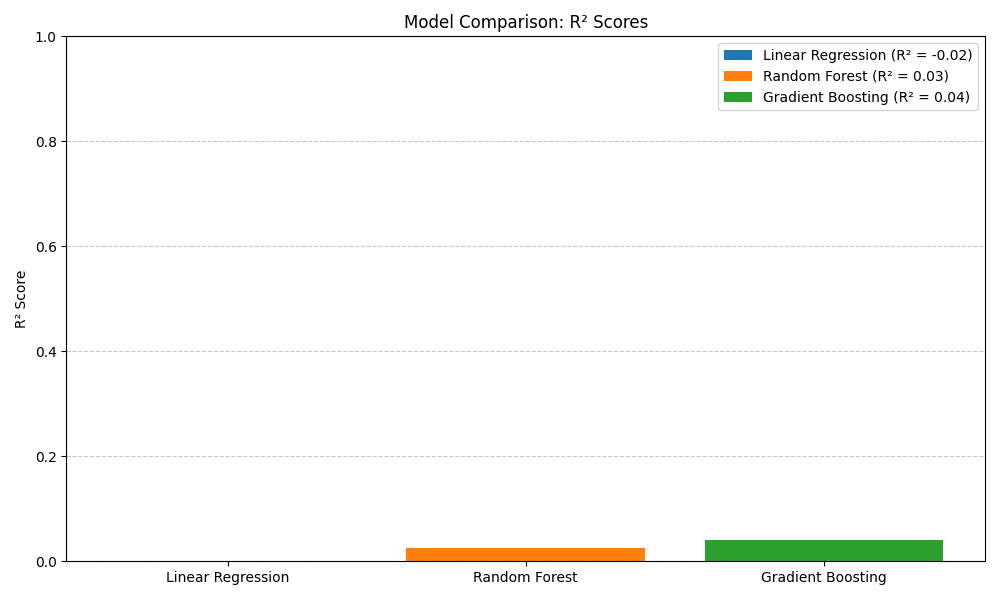
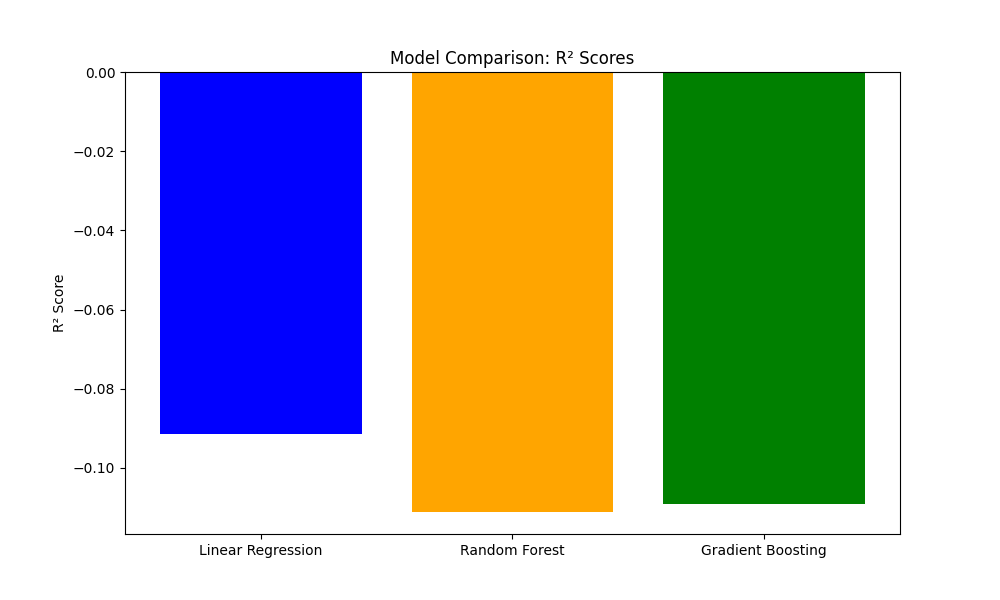
Update project with recent changes

diff --git a/analysis/analyze_merged_data.py b/analysis/analyze_merged_data.py
@@ -1,0 +1,135 @@
+import pandas as pd
+import matplotlib.pyplot as plt
+import seaborn as sns
+import os
+from sklearn.linear_model import LinearRegression
+from sklearn.ensemble import RandomForestRegressor, GradientBoostingRegressor
+from sklearn.model_selection import train_test_split
+from sklearn.metrics import r2_score
+
+# File paths for merged datasets
+file_paths = [
+    '/Users/gim-yeji/PycharmProjects/pythonProject/IoT/merged_data_collection/merged_data_2024-12-02.csv',
+    '/Users/gim-yeji/PycharmProjects/pythonProject/IoT/merged_data_collection/merged_data_2024-12-03.csv',
+    '/Users/gim-yeji/PycharmProjects/pythonProject/IoT/merged_data_collection/merged_data_2024-12-04.csv',
+    '/Users/gim-yeji/PycharmProjects/pythonProject/IoT/merged_data_collection/merged_data_2024-12-06.csv',
+    '/Users/gim-yeji/PycharmProjects/pythonProject/IoT/merged_data_collection/merged_data_2024-12-07.csv',
+    '/Users/gim-yeji/PycharmProjects/pythonProject/IoT/merged_data_collection/merged_data_2024-12-08.csv',
+    '/Users/gim-yeji/PycharmProjects/pythonProject/IoT/merged_data_collection/merged_data_2024-12-09.csv',
+    '/Users/gim-yeji/PycharmProjects/pythonProject/IoT/merged_data_collection/merged_data_2024-12-11.csv'
+]
+
+# Output folder for analysis results
+output_folder = "/Users/gim-yeji/PycharmProjects/pythonProject/IoT/models/analysis"
+if not os.path.exists(output_folder):
+    os.makedirs(output_folder)
+
+# Function to load and combine all data files
+def load_data(files):
+    """
+    Load and combine all merged CSV files into a single DataFrame.
+    """
+    data = pd.concat([pd.read_csv(file) for file in files], ignore_index=True)
+    return data
+
+# Function to preprocess the data
+def preprocess_data(data):
+    """
+    Preprocess data by formatting 'datetime' and creating useful fields.
+    """
+    # Convert 'datetime' to pandas datetime format
+    data['datetime'] = pd.to_datetime(data['datetime'], errors='coerce')
+    # Drop rows with invalid datetime
+    data = data.dropna(subset=['datetime'])
+    # Extract hour for hourly traffic analysis
+    data['hour'] = data['datetime'].dt.hour
+    # Convert categorical 'line' to numeric values
+    data['line_numeric'] = pd.factorize(data['line'])[0]
+    return data
+
+# Function to analyze correlation
+def analyze_correlation(data):
+    """
+    Analyze correlations between temperature, humidity, and traffic volume.
+    """
+    corr_matrix = data[['temperature', 'humidity', 'line_numeric']].corr()
+    plt.figure(figsize=(10, 8))
+    sns.heatmap(corr_matrix, annot=True, fmt=".2f", cmap="coolwarm")
+    plt.title("Correlation Matrix")
+    plt.savefig(f"{output_folder}/correlation_matrix.png")
+    plt.close()
+
+# Function to create an hourly heatmap
+def analyze_hourly_heatmap(data):
+    """
+    Analyze and visualize traffic volume by hour for each route.
+    """
+    pivot = data.pivot_table(index='line', columns='hour', values='line_numeric', aggfunc='count', fill_value=0)
+    plt.figure(figsize=(12, 8))
+    sns.heatmap(pivot, cmap="YlGnBu", annot=False)
+    plt.title("Hourly Traffic Heatmap")
+    plt.xlabel("Hour")
+    plt.ylabel("Line")
+    plt.savefig(f"{output_folder}/hourly_heatmap.png")
+    plt.close()
+
+# Function to compare models and visualize their performance
+def model_analysis(data):
+    """
+    Compare multiple machine learning models and evaluate their performance.
+    """
+    X = data[['temperature', 'humidity']]
+    y = data['line_numeric']
+
+    # Split the data into training and testing sets
+    X_train, X_test, y_train, y_test = train_test_split(X, y, test_size=0.2, random_state=42)
+
+    # Define models
+    models = {
+        "Linear Regression": LinearRegression(),
+        "Random Forest": RandomForestRegressor(random_state=42),
+        "Gradient Boosting": GradientBoostingRegressor(random_state=42)
+    }
+
+    # Train models and evaluate R² scores
+    results = {}
+    for name, model in models.items():
+        model.fit(X_train, y_train)
+        y_pred = model.predict(X_test)
+        r2 = r2_score(y_test, y_pred)
+        results[name] = r2
+
+    # Visualize R² scores
+    plt.figure(figsize=(10, 6))
+    plt.bar(results.keys(), results.values(), color=["blue", "orange", "green"])
+    plt.title("Model Comparison: R² Scores")
+    plt.ylabel("R² Score")
+    plt.savefig(f"{output_folder}/model_comparison.png")
+    plt.close()
+
+    # Visualize Actual vs Predicted values for the best model
+    y_pred = models["Gradient Boosting"].predict(X_test)
+    plt.figure(figsize=(10, 6))
+    plt.scatter(y_test, y_pred, label="Predicted vs Actual", alpha=0.6)
+    plt.plot([y_test.min(), y_test.max()], [y_test.min(), y_test.max()], 'r--', label="Ideal Fit")
+    plt.title("Model Performance: Actual vs Predicted")
+    plt.xlabel("Actual Traffic Volume")
+    plt.ylabel("Predicted Traffic Volume")
+    plt.legend()
+    plt.savefig(f"{output_folder}/actual_vs_predicted.png")
+    plt.close()
+
+# Main execution flow
+if __name__ == "__main__":
+    # Load and preprocess data
+    raw_data = load_data(file_paths)
+    clean_data = preprocess_data(raw_data)
+
+    # Perform correlation analysis
+    analyze_correlation(clean_data)
+
+    # Create hourly traffic heatmap
+    analyze_hourly_heatmap(clean_data)
+
+    # Perform model comparison and evaluation
+    model_analysis(clean_data)

diff --git a/analysis/traffic_visualizations.py b/analysis/traffic_visualizations.py
@@ -3,8 +3,8 @@ import matplotlib.pyplot as plt
 import os
 
 # Define paths
-DATA_PATH = "/Users/gim-yeji/PycharmProjects/pythonProject/IoT/merged_data_collection/"
-VISUALIZATION_PATH = "/Users/gim-yeji/PycharmProjects/pythonProject/IoT/static/visualizations/"
+DATA_PATH = "/IoT/merged_data_collection/"
+VISUALIZATION_PATH = "/IoT/static/visualizations/"
 
 # Ensure the visualization folder exists
 os.makedirs(VISUALIZATION_PATH, exist_ok=True)

diff --git a/data_preprocessing/data_collection.py b/data_preprocessing/data_collection.py
@@ -9,7 +9,7 @@ import logging
 
 # Set up logging
 logging.basicConfig(
-    filename="log/daily_data_collection.log",
+    filename="../log/daily_data_collection.log",
     level=logging.INFO,
     format="%(asctime)s - %(levelname)s - %(message)s"
 )

diff --git a/app.py b/app.py
@@ -61,5 +61,7 @@ def correlation():
     }
     return jsonify(correlation_results)
 
+
+
 if __name__ == "__main__":
     app.run(debug=True)

diff --git a/README.md b/README.md
@@ -1,0 +1,122 @@
+🚍 IoT Traffic Prediction and Visualization Platform
+
+An interactive platform for analyzing and predicting traffic patterns in urban areas, leveraging real-time traffic and weather data.
+
+📖 Table of Contents
+	1.	About the Project
+	2.	Features
+	3.	Project Structure
+	4.	Installation
+	5.	Usage
+	6.	Deployment
+	7.	Screenshots
+
+📌 About the Project
+
+Urban traffic management requires sophisticated tools to ensure efficiency and scalability. This project integrates real-time traffic data from the Transport API with weather data from OpenWeather API to:
+ •	Identify traffic trends.
+ •	Analyze correlations between weather and traffic.
+ •	Enable predictive modeling to forecast traffic volumes.
+
+The platform provides an interactive dashboard for visualization and predictions, making it an essential tool for transportation planning and optimization.
+
+✨ Features
+
+📊 Dynamic Visualizations:
+ •	Traffic by Hour Heatmap.
+ •  Top Routes Bar Chart.
+
+🤖 Predictive Analytics:
+ •	Traffic prediction based on temperature and humidity.
+ 
+🌐 Interactive Dashboard:
+ •	User-friendly interface for data exploration.
+ 
+🔗 Real-Time Data Integration:
+ •	Fetches traffic and weather data seamlessly.
+
+📂 Project Structure
+IoT
+├── analysis/                # Visualizations and data analysis scripts
+├── data_preprocessing/      # Data merging and preprocessing scripts
+├── log/                     # Logging files for data collection
+├── merged_data_collection/  # Merged weather and traffic datasets
+├── models/                  # Trained machine learning models (Pickle files)
+├── static/                  # Static assets (e.g., visualization images)
+├── templates/               # HTML templates for Flask
+├── transport_data_collection/ # Raw transport data
+├── weather_data_collection/ # Raw weather data
+├── app.py                   # Main Flask application
+├── part1.py                 # Data collection scripts (Part 1)
+├── requirements.txt         # Python dependencies
+└── README.md                # Project documentation
+
+💻 Installation
+
+Follow these steps to set up the project locally:
+1.	Clone the Repository
+git clone https://github.com/your-username/IoT_Final-Project.git
+cd IoT_Final-Project
+
+2. Install Dependencies
+Ensure Python 3.8+ is installed, then run:
+pip install -r requirements.txt
+
+3. Set API Keys
+Add your API keys in config.py:
+	•	Transport API
+	•	OpenWeather API
+
+🚀 Usage
+1.	Run the Application
+Start the Flask app with the following command:
+python app.py
+Visit http://127.0.0.1:5000 in your browser to access the dashboard.
+
+2. 	Interact with the Dashboard	
+•	View traffic trends and correlations.	
+•	Input weather parameters to predict traffic.
+
+🌐 Deployment
+
+Deploy Locally
+
+Follow the usage instructions to run the project locally.
+
+Deploy on Render
+	1.	Link the repository to Render.
+	2.	Set up the build command:
+        pip install -r requirements.txt
+    3. Use the start command:
+        python app.py
+    4. Deploy and access the live URL.
+
+🛠 Built With
+•	Python
+	• Flask: Web framework
+	• Matplotlib & Seaborn: Visualization
+	• Scikit-learn: Machine learning
+•	HTML/CSS: Frontend templates
+•	Google Cloud Storage: Data backup
+•	Transport API & OpenWeather API: Data sources
+
+📊 Results and Insights
+	1.	Traffic Patterns:
+	•	Evening rush hour (5–6 PM) shows peak traffic activity.
+	•	Route A1 consistently has the highest usage.
+	2.	Weather Correlation:
+	•	Minimal direct impact of weather variables on traffic.
+	•	Weak correlation between temperature, humidity, and traffic volume.
+	3.	Model Performance:
+	•	Gradient Boosting achieved the best R² score (0.04).
+	•	Models are limited by dataset features and short observation period.
+
+🌟 Future Enhancements
+	•	Include real-time traffic feeds, event data, and additional contextual features.
+	•	Extend data collection to capture seasonal and long-term patterns.
+	•	Explore neural networks for better prediction accuracy.
+	•	Deploy the platform on a cloud service for real-time scalability.
+
+👩💻 Contributor
+• Yeji Kim
+Contact: yk1924@ic.ac.uk / yejikim001120@gmail.com
